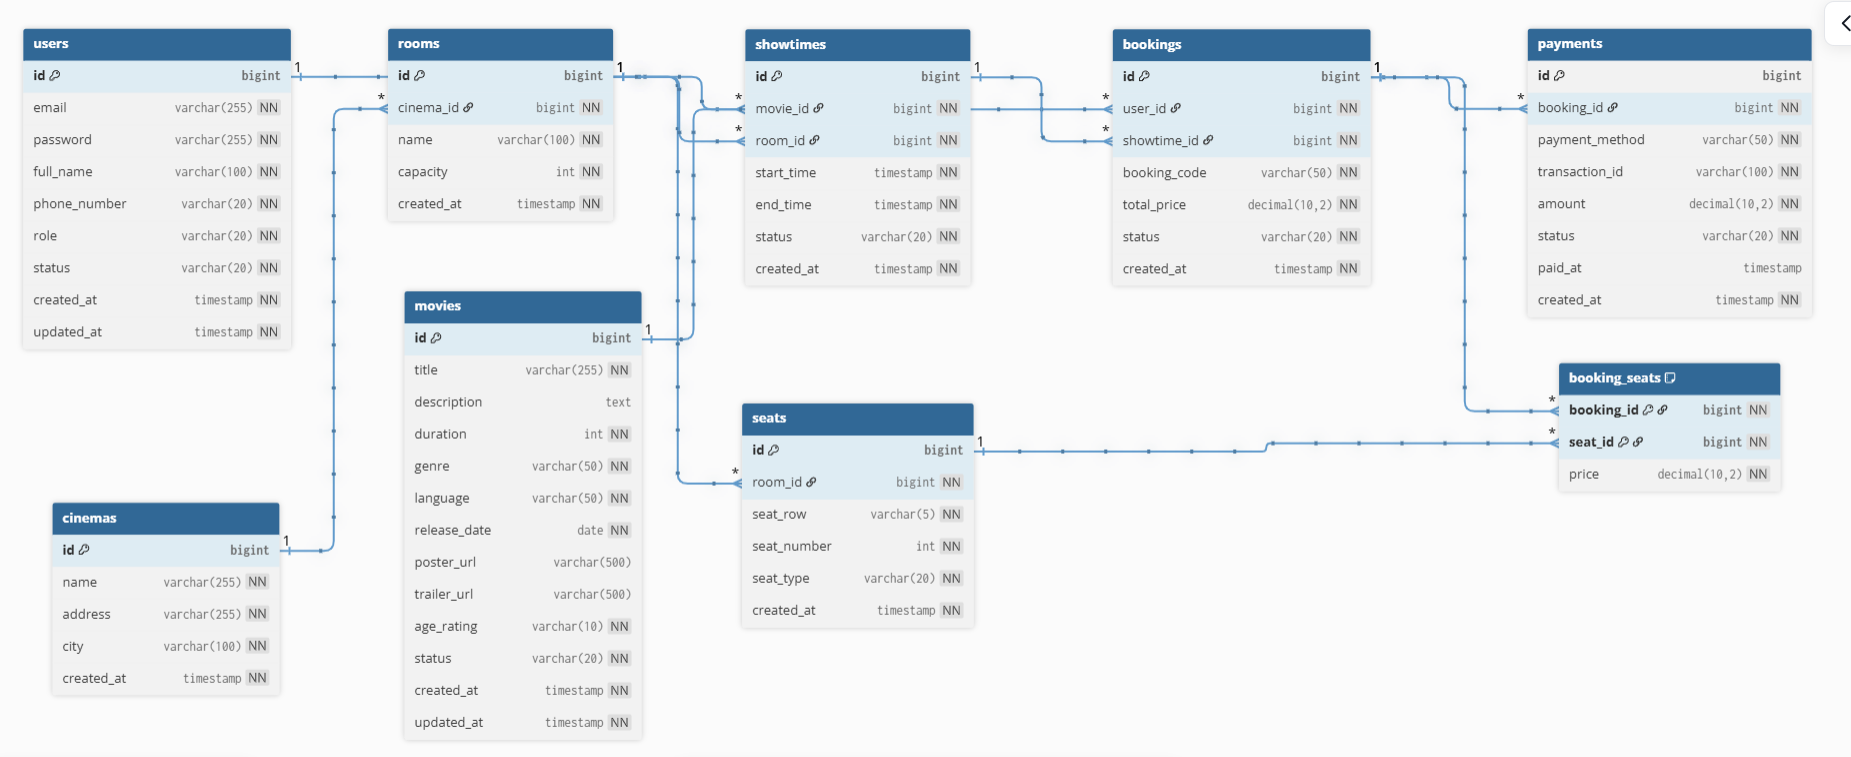
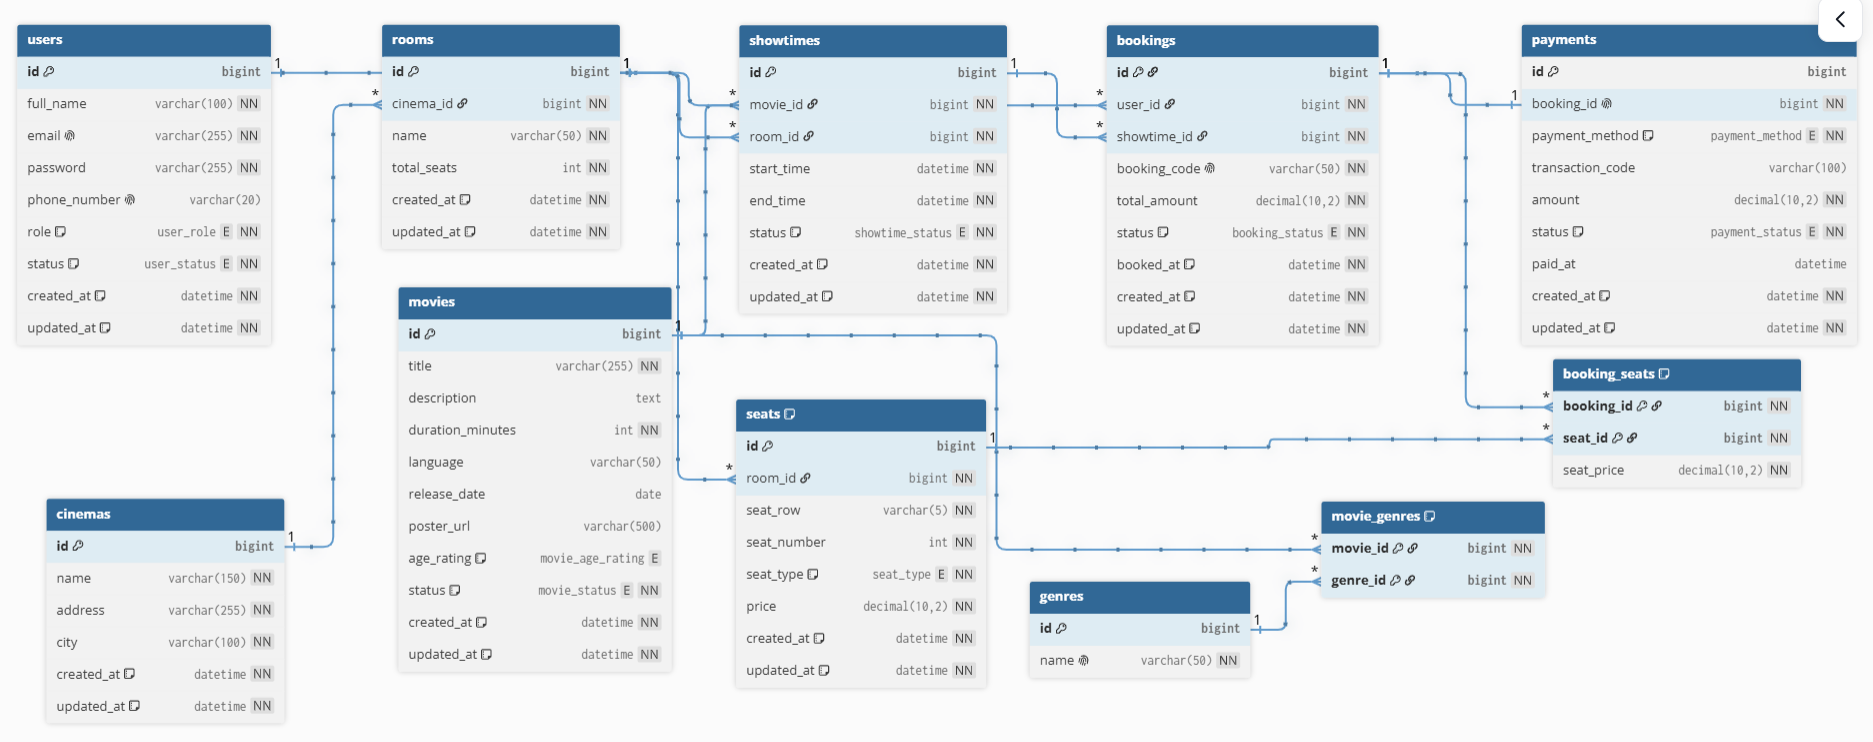
docs: modify database design

diff --git a/docs/database-design.md b/docs/database-design.md
@@ -1,56 +1,76 @@
 # Database Design
 
+## Entity-Relationship Diagram (ERD)
+
 ![ERD](images/erd.png)
 
 ---
 
+## Table
 
-## Entities
-
-### Users
+### users
 Stores user account information.
 
-| Field | Type | Constraints | Description |
-|---|---|---|---|
-| id | BIGINT | PK, AUTO_INCREMENT | User id |
-| email | VARCHAR(255) | UNIQUE, NOT NULL | User email |
-| password | VARCHAR(255) | NOT NULL | Hashed password |
-| full_name | VARCHAR(100) | NOT NULL | Full name |
-| phone_number | VARCHAR(20) | NOT NULL | Phone number |
-| role | VARCHAR(20) | NOT NULL | USER / ADMIN |
-| status | VARCHAR(20) | NOT NULL | ACTIVE / INACTIVE |
-| created_at | TIMESTAMP | NOT NULL | Created time |
-| updated_at | TIMESTAMP | NOT NULL | Updated time |
+| Field     | Type         | Constraints        | Description       |
+|-----------|--------------|--------------------|-------------------|
+| id        | BIGINT       | PK, AUTO_INCREMENT | User identifier   |
+| email     | VARCHAR(255) | UNIQUE, NOT NULL   | User email        |
+| password  | VARCHAR(255) | NOT NULL           | Hashed password   |
+| full_name | VARCHAR(100) | NOT NULL           | Full name         |
+| phone_number | VARCHAR(20)  | UNIQUE, NOT NULL   | Phone number      |
+| role      | ENUM         | NOT NULL       | ADMIN / USER      |
+| status    | ENUM         | NOT NULL           | ACTIVE / INACTIVE |
+| created_at | TIMESTAMP    | NOT NULL           | Created time      |
+| updated_at | TIMESTAMP    | NOT NULL           | Updated time      |
 
 ---
 
-### Movies
+### genres
+
+Represents a movie genre category.
+
+| Attribute | Type | Constraints | Description      |
+|---|---|---|------------------|
+| id | BIGINT | PK, AUTO_INCREMENT | Genre identifier |
+| name | VARCHAR(50) | NOT NULL, UNIQUE | Genre name       |
+
+---
+
+### movies
 Stores movie information.
 
-| Field | Type | Constraints | Description |
-|---|---|---|---|
-| id | BIGINT | PK, AUTO_INCREMENT | Movie id |
-| title | VARCHAR(255) | NOT NULL | Movie title |
-| description | TEXT | NULL | Movie description |
-| duration | INT | NOT NULL | Duration in minutes |
-| genre | VARCHAR(50) | NOT NULL | Movie genre |
-| language | VARCHAR(50) | NOT NULL | Movie language |
-| release_date | DATE | NOT NULL | Release date |
-| poster_url | VARCHAR(500) | NULL | Poster URL |
-| trailer_url | VARCHAR(500) | NULL | Trailer URL |
-| age_rating | VARCHAR(10) | NOT NULL | Age restriction |
-| status | VARCHAR(20) | NOT NULL | ACTIVE / INACTIVE |
-| created_at | TIMESTAMP | NOT NULL | Created time |
-| updated_at | TIMESTAMP | NOT NULL | Updated time |
+| Field | Type        | Constraints | Description                        |
+|---|-------------|---|------------------------------------|
+| id | BIGINT      | PK, AUTO_INCREMENT | Movie identifier                   |
+| title | VARCHAR(255) | NOT NULL | Movie title                        |
+| description | TEXT        | NULL | Movie description                  |
+| duration | INT         | NOT NULL | Duration in minutes                |
+| language | VARCHAR(50) | NOT NULL | Movie language                     |
+| release_date | DATE        | NOT NULL | Release date                       |
+| poster_url | VARCHAR(500) | NULL | Poster URL                         |
+| trailer_url | VARCHAR(500) | NULL | Trailer URL                        |
+| age_rating | VARCHAR(10) | NOT NULL | Age restriction                    |
+| status | ENUM        | NOT NULL | COMMING_SOON / NOW_SHOWING / ENDED |
+| created_at | TIMESTAMP   | NOT NULL | Created time                       |
+| updated_at | TIMESTAMP   | NOT NULL | Updated time                       |
 
 ---
 
-### Cinemas
+### movie_genres
+
+Junction table representing the many-to-many relationship between movies and genres.
+
+| Attribute | Type | Constraints | Description |
+|---|---|---|---|
+| movie_id | BIGINT | PK, FK | Referenced movie |
+| genre_id | BIGINT | PK, FK | Referenced genre |
+
+### cinemas
 Stores cinema branch information.
 
 | Field | Type | Constraints | Description |
 |---|---|---|---|
-| id | BIGINT | PK, AUTO_INCREMENT | Cinema id |
+| id | BIGINT | PK, AUTO_INCREMENT | Cinema identifier |
 | name | VARCHAR(255) | NOT NULL | Cinema name |
 | address | VARCHAR(255) | NOT NULL | Cinema address |
 | city | VARCHAR(100) | NOT NULL | City |
@@ -58,85 +78,85 @@ Stores cinema branch information.
 
 ---
 
-### Rooms
+### rooms
 Stores screening rooms.
 
 | Field | Type | Constraints | Description |
 |---|---|---|---|
-| id | BIGINT | PK, AUTO_INCREMENT | Room id |
-| cinema_id | BIGINT | FK, NOT NULL | Cinema id |
+| id | BIGINT | PK, AUTO_INCREMENT | Room identifier |
+| cinema_id | BIGINT | FK, NOT NULL | Cinema identifier |
 | name | VARCHAR(100) | NOT NULL | Room name |
 | capacity | INT | NOT NULL | Total seats |
 | created_at | TIMESTAMP | NOT NULL | Created time |
 
 ---
 
-### Seats
+### seats
 Stores room seat information.
 
-| Field | Type | Constraints | Description |
-|---|---|---|---|
-| id | BIGINT | PK, AUTO_INCREMENT | Seat id |
-| room_id | BIGINT | FK, NOT NULL | Room id |
-| seat_row | VARCHAR(5) | NOT NULL | Seat row |
-| seat_number | INT | NOT NULL | Seat number |
-| seat_type | VARCHAR(20) | NOT NULL | NORMAL / VIP / COUPLE |
-| created_at | TIMESTAMP | NOT NULL | Created time |
+| Field | Type | Constraints | Description     |
+|---|---|---|-----------------|
+| id | BIGINT | PK, AUTO_INCREMENT | Seat identifier |
+| room_id | BIGINT | FK, NOT NULL | Room identifier |
+| seat_row | VARCHAR(5) | NOT NULL | Seat row        |
+| seat_number | INT | NOT NULL | Seat number     |
+| seat_type | ENUM | NOT NULL | SINGLE / COUPLE |
+| created_at | TIMESTAMP | NOT NULL | Created time    |
 
 ---
 
-### Showtimes
+### showtimes
 Stores movie schedules.
 
 | Field | Type | Constraints | Description |
 |---|---|---|---|
-| id | BIGINT | PK, AUTO_INCREMENT | Showtime id |
-| movie_id | BIGINT | FK, NOT NULL | Movie id |
-| room_id | BIGINT | FK, NOT NULL | Room id |
+| id | BIGINT | PK, AUTO_INCREMENT | Showtime identifier |
+| movie_id | BIGINT | FK, NOT NULL | Movie identifier |
+| room_id | BIGINT | FK, NOT NULL | Room identifier |
 | start_time | TIMESTAMP | NOT NULL | Start time |
 | end_time | TIMESTAMP | NOT NULL | End time |
-| status | VARCHAR(20) | NOT NULL | ACTIVE / CANCELLED |
+| status | ENUM | NOT NULL | ACTIVE / CANCELLED |
 | created_at | TIMESTAMP | NOT NULL | Created time |
 
 ---
 
-### Bookings
+### bookings
 Stores booking transactions.
 
 | Field | Type | Constraints | Description |
 |---|---|---|---|
-| id | BIGINT | PK, AUTO_INCREMENT | Booking id |
-| user_id | BIGINT | FK, NOT NULL | User id |
-| showtime_id | BIGINT | FK, NOT NULL | Showtime id |
+| id | BIGINT | PK, AUTO_INCREMENT | Booking identifier |
+| user_id | BIGINT | FK, NOT NULL | User identifier |
+| showtime_id | BIGINT | FK, NOT NULL | Showtime identifier |
 | booking_code | VARCHAR(50) | UNIQUE, NOT NULL | Booking code |
 | total_price | DECIMAL(10,2) | NOT NULL | Total amount |
-| status | VARCHAR(20) | NOT NULL | PENDING / PAID / CANCELLED |
+| status | ENUM | NOT NULL | PENDING / PAID / CANCELLED |
 | created_at | TIMESTAMP | NOT NULL | Created time |
 
 ---
 
-### Booking_Seats
+### booking_seats
 Stores selected seats in a booking.
 
 | Field | Type | Constraints | Description |
 |---|---|---|---|
-| booking_id | BIGINT | PK, FK, NOT NULL | Booking id |
-| seat_id | BIGINT | PK, FK, NOT NULL | Seat id |
+| booking_id | BIGINT | PK, FK | Booking identifier |
+| seat_id | BIGINT | PK, FK | Seat identifier |
 | price | DECIMAL(10,2) | NOT NULL | Seat price |
 
 ---
 
-### Payments
+### payments
 Stores payment transactions.
 
 | Field | Type | Constraints | Description |
 |---|---|---|---|
-| id | BIGINT | PK, AUTO_INCREMENT | Payment id |
-| booking_id | BIGINT | FK, NOT NULL | Booking id |
+| id | BIGINT | PK, AUTO_INCREMENT | Payment identifier |
+| booking_id | BIGINT | FK, NOT NULL | Booking identifier |
 | payment_method | VARCHAR(50) | NOT NULL | Payment provider |
-| transaction_id | VARCHAR(100) | UNIQUE, NOT NULL | Transaction id |
+| transaction_id | VARCHAR(100) | UNIQUE, NOT NULL | Transaction identifier |
 | amount | DECIMAL(10,2) | NOT NULL | Payment amount |
-| status | VARCHAR(20) | NOT NULL | PENDING / SUCCESS / FAILED |
+| status | ENUM | NOT NULL | PENDING / SUCCESS / FAILED |
 | paid_at | TIMESTAMP | NULL | Payment time |
 | created_at | TIMESTAMP | NOT NULL | Created time |
 
@@ -145,6 +165,7 @@ Stores payment transactions.
 ## Primary Keys
 
 - users.id
+- genres.id
 - movies.id
 - cinemas.id
 - rooms.id
@@ -154,28 +175,31 @@ Stores payment transactions.
 - payments.id
 
 ### Composite Primary Key
+- movie_genres (movie_id, genre_id)
 - booking_seats (booking_id, seat_id)
 
 ---
 
 ## Foreign Keys
 
-| Table | Foreign Key | References |
-|---|---|---|
-| rooms | cinema_id | cinemas.id |
-| seats | room_id | rooms.id |
-| showtimes | movie_id | movies.id |
-| showtimes | room_id | rooms.id |
-| bookings | user_id | users.id |
-| bookings | showtime_id | showtimes.id |
-| booking_seats | booking_id | bookings.id |
-| booking_seats | seat_id | seats.id |
-| payments | booking_id | bookings.id |
+| Table         | Foreign Key | References   |
+|---------------|-------------|--------------|
+| rooms         | cinema_id   | cinemas.id   |
+| users         | role_id     | roles.id     |
+| seats         | room_id     | rooms.id     |
+| showtimes     | movie_id    | movies.id    |
+| showtimes     | room_id     | rooms.id     |
+| bookings      | user_id     | users.id     |
+| bookings      | showtime_id | showtimes.id |
+| booking_seats | booking_id  | bookings.id  |
+| booking_seats | seat_id     | seats.id     |
+| payments      | booking_id  | bookings.id  |
 
 ---
 
 ## Relationships
-
+- One Movie can have many MovieGenres
+- One Genre can have many MovieGenres
 - One Cinema has many Rooms
 - One Room has many Seats
 - One Movie has many Showtimes